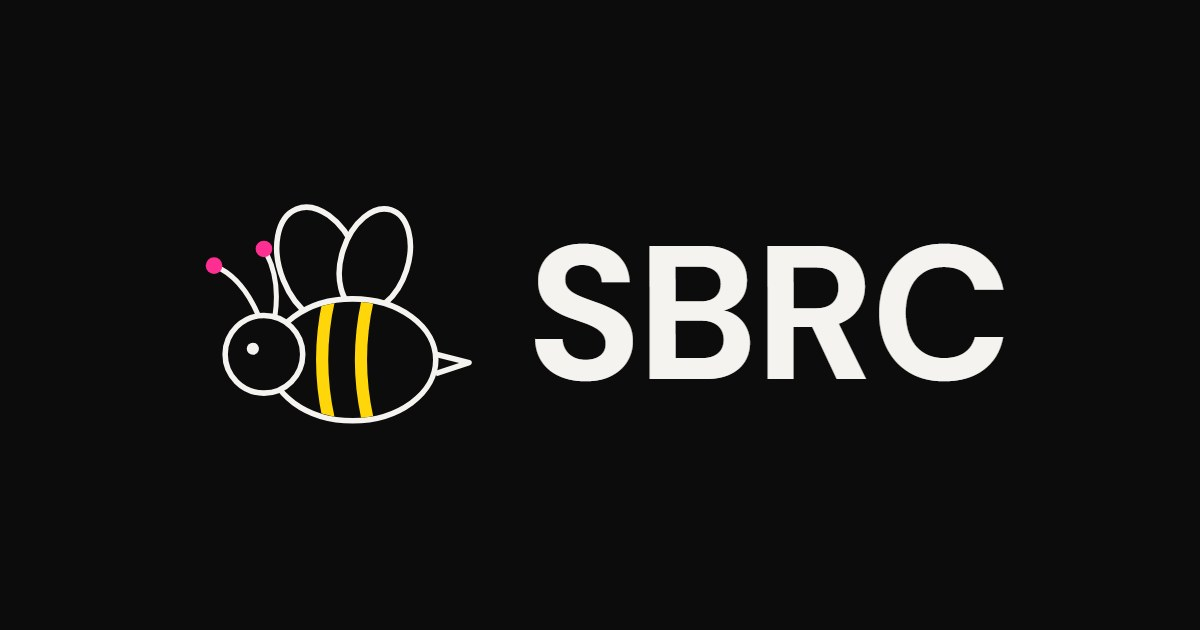
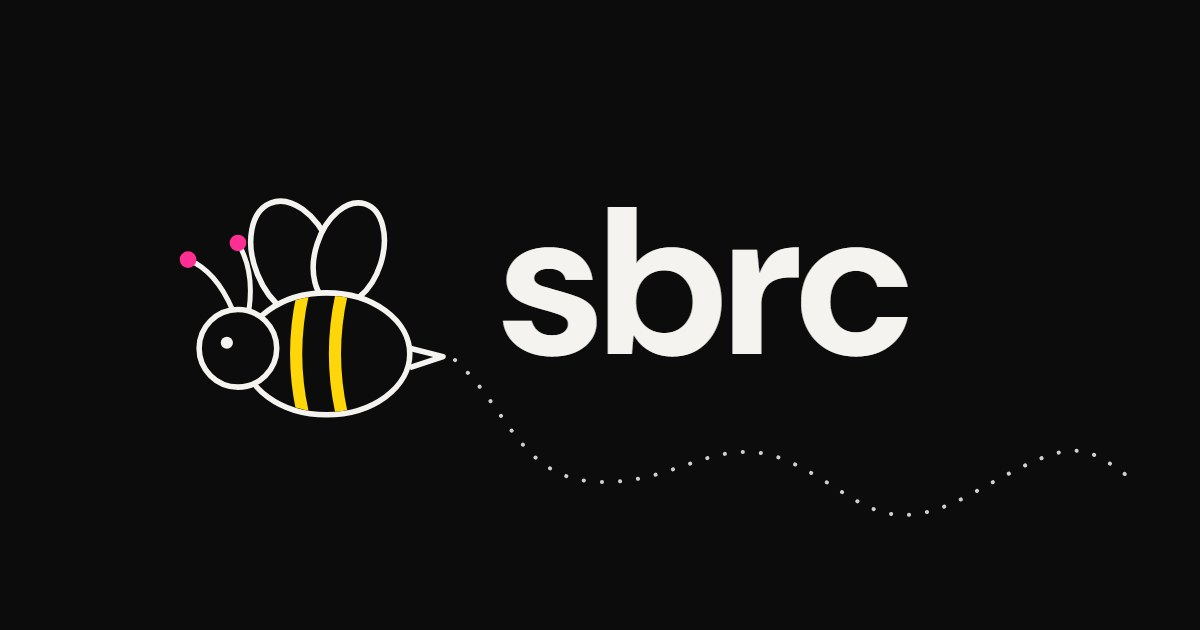
Share image: lowercase sbrc with bee trail

Changed region(s): [[0.4008, 0.3317, 0.8325, 0.6032], [0.1233, 0.3016, 0.4008, 0.6937]]

diff --git a/index.html b/index.html
@@ -10,10 +10,10 @@
 <meta property="og:title" content="SBRC | Kink &amp; Sexuality Coaching">
 <meta property="og:description" content="Judgment-free kink and sexuality coaching for individuals and couples, grounded in behavior science. Adults 18+.">
 <meta property="og:url" content="https://sbrc-jet.vercel.app/">
-<meta property="og:image" content="https://sbrc-jet.vercel.app/og-image.jpg">
+<meta property="og:image" content="https://sbrc-jet.vercel.app/og-image.jpg?v=2">
 <meta property="og:image:width" content="1200">
 <meta property="og:image:height" content="630">
-<meta property="og:image:alt" content="A fine-line bee next to the name SBRC">
+<meta property="og:image:alt" content="A fine-line bee with a dotted trail next to the name sbrc">
 <meta name="twitter:card" content="summary_large_image">
 <link rel="icon" href="favicon.svg" type="image/svg+xml">
 <link rel="icon" href="favicon-32.png" type="image/png" sizes="32x32">
